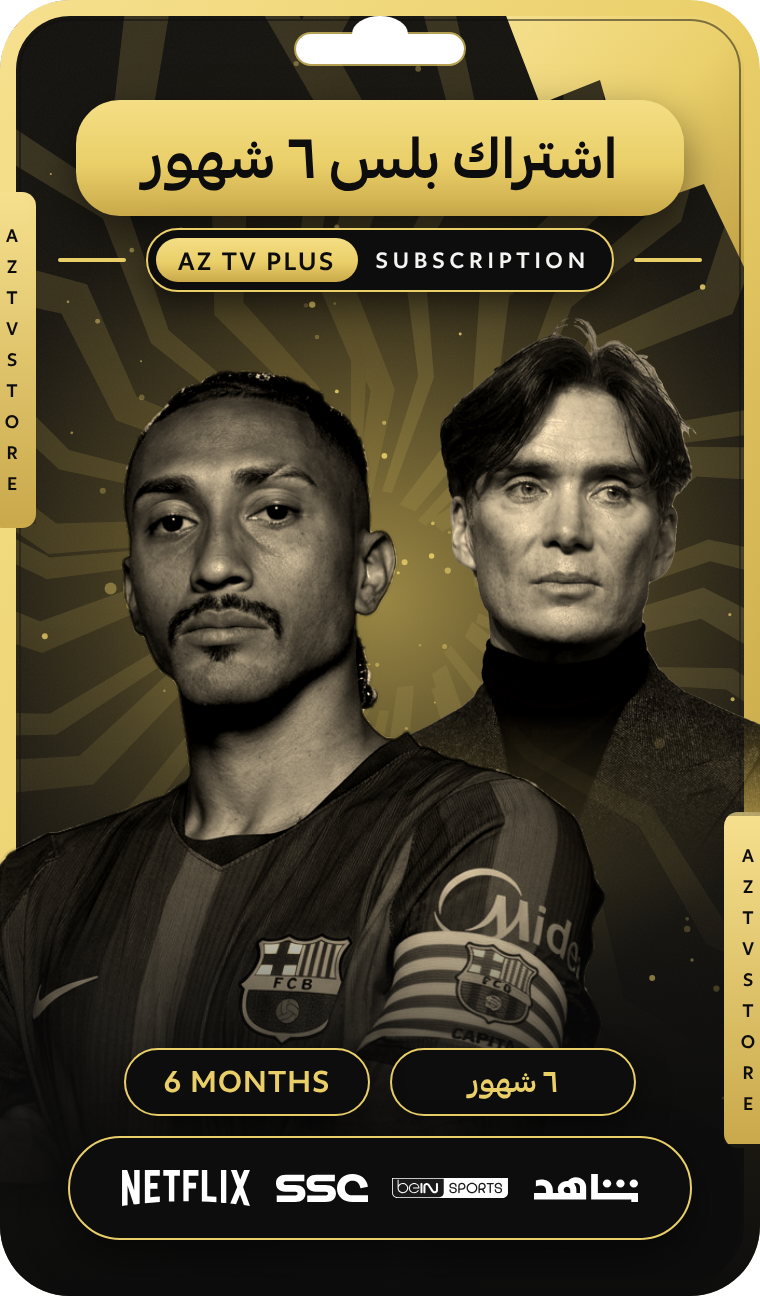
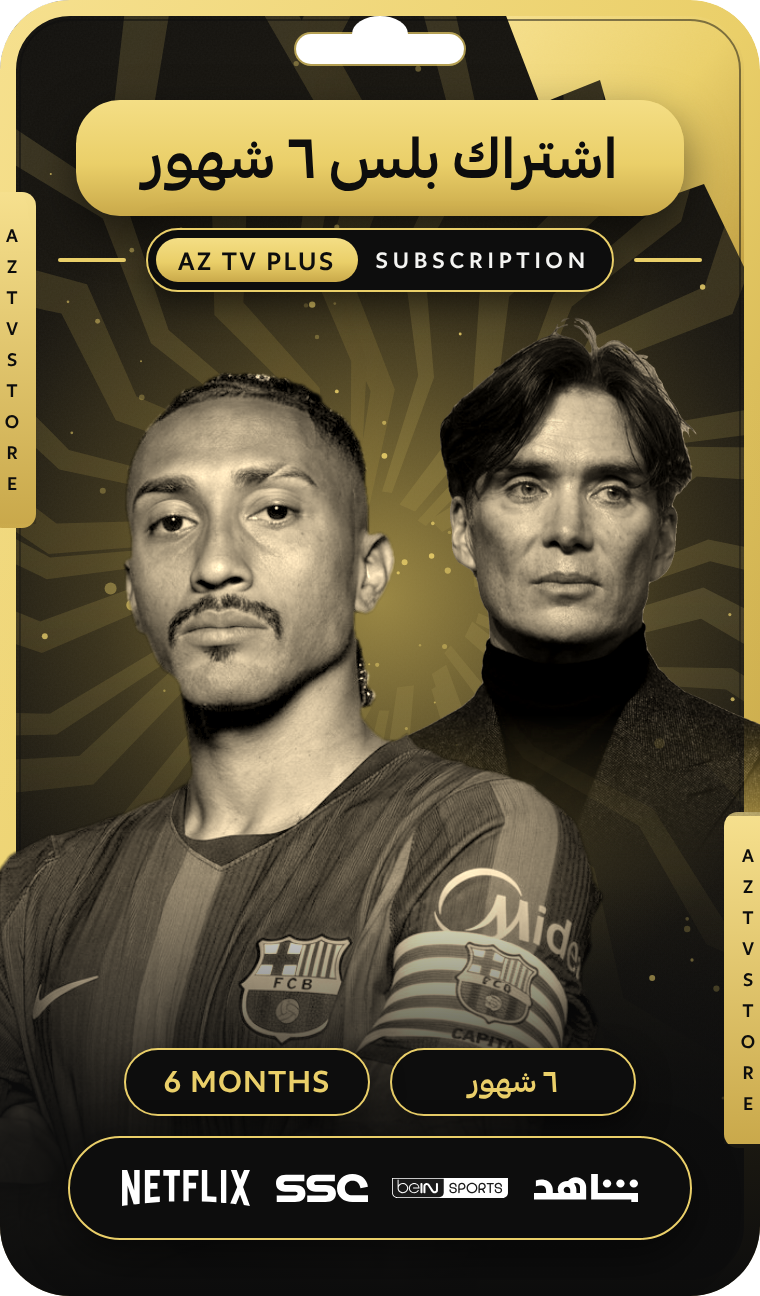
Cards Plus 3 and 6 months: open the shadows on the dark faces
New per-photo gamma option (SVG gamma filter, which also trims 1px off the
cut-out edge so lifting the shadows shows no light fringe). Used on both
photos of Plus 3 months and on the player of Plus 6 months. Other cards
render unchanged.

Claude-Session: https://claude.ai/code/session_01FygVLnFo91EcE1sreJGJg8

Changed region(s): [[0.0, 0.2778, 0.7868, 0.8333]]

diff --git a/05-design/shared/subscription-cards/card.html b/05-design/shared/subscription-cards/card.html
@@ -7,7 +7,8 @@
   One subscription card: the card background (bg/) plus its title, two portraits, duration and platform logos.
   Size 380 x 648 here, exported at 2x = 760 x 1296 to new/<card>.png by render-cards.cjs.
   URL: ?card=aztv-6m   (cards are defined in CARDS below)
-  Photo placement: left, top, width in card px (lift brightens a dark photo); images are faded out at the bottom so no cut line shows.
+  Photo placement: left, top, width in card px (lift brightens a dark photo; gamma below 1 opens the shadows of a dark face without
+  blowing out the highlights); images are faded out at the bottom so no cut line shows.
   Tiers: the regular cards are white and black and white; plus: true switches to the black and gold card (gold pills, warm photos, dark floor).
   Renewal cards have no photos: renew: true draws the renewal arrows in the middle instead.
 -->
@@ -164,15 +165,15 @@ const CARDS = {
     plus: true, bg: PLUS, title: "اشتراك بلس ٦ شهور", dEn: "6 MONTHS", dAr: "٦ شهور",
     photos: [
       { src: ST + "03-cillian-murphy-the-immortal-man.png", left: 182, top: 150, width: 230 },
-      { src: PH + "004-barcelona-captain.png", left: -168, top: 127, width: 483 }
+      { src: PH + "004-barcelona-captain.png", left: -168, top: 127, width: 483, lift: 1.04, gamma: .6 }
     ]
   },
   // 8. AZ TV Plus, 3 months
   "plus-3m": {
     plus: true, bg: PLUS, title: "اشتراك بلس ٣ شهور", dEn: "3 MONTHS", dAr: "٣ شهور",
     photos: [
-      { src: ST + "04-lee-jung-jae-squid-game-3.png", left: 99, top: 77, width: 366, lift: 1.15 },
-      { src: PH + "011-light-blue-kit-hands-behind-back.png", left: -110, top: 172, width: 457 }
+      { src: ST + "04-lee-jung-jae-squid-game-3.png", left: 99, top: 77, width: 366, lift: 1.08, gamma: .62 },
+      { src: PH + "011-light-blue-kit-hands-behind-back.png", left: -110, top: 172, width: 457, gamma: .82 }
     ]
   },
   // 9. AZ TV (regular) renewal: no faces
@@ -211,13 +212,30 @@ document.getElementById("sub-name").textContent = c.plus ? "AZ TV PLUS" : "AZ TV
 document.getElementById("sub").textContent = c.renew ? "RENEWAL" : "SUBSCRIPTION";
 document.getElementById("d-en").textContent = c.dEn;
 document.getElementById("d-ar").textContent = c.dAr;
+// SVG gamma filter (one per value), for CSS filter: url(#id)
+function gammaFilter(g) {
+  const id = "gamma" + String(g).replace(".", "");
+  if (!document.getElementById(id)) {
+    const fn = ["R", "G", "B"].map(ch => `<feFunc${ch} type="gamma" amplitude="1" exponent="${g}" offset="0"/>`).join("");
+    document.body.insertAdjacentHTML("beforeend",
+      // also trims 1px off the cut-out edge, where lifting the shadows would show a light fringe
+      `<svg width="0" height="0" style="position:absolute"><filter id="${id}" color-interpolation-filters="sRGB">` +
+      `<feComponentTransfer result="lit">${fn}</feComponentTransfer>` +
+      `<feMorphology in="SourceAlpha" operator="erode" radius="1" result="edge"/>` +
+      `<feComposite in="lit" in2="edge" operator="in"/></filter></svg>`);
+  }
+  return id;
+}
 const photos = document.getElementById("photos");
 c.photos.forEach(p => {
   const im = new Image(); im.src = p.src;
   im.style.cssText = `left:${p.left}px;top:${p.top}px;width:${p.width}px`;
   // fadeTop: the photo is cut flat at its top edge (hair touching the frame), so fade that edge too
   if (p.fadeTop) im.style.webkitMaskImage = im.style.maskImage = "linear-gradient(to bottom, transparent 0, #000 9%, #000 72%, transparent 97%)";
-  if (p.lift) im.style.filter = c.plus ? `grayscale(1) sepia(.55) saturate(1.25) contrast(1.12) brightness(${p.lift})` : `grayscale(1) contrast(1.15) brightness(${p.lift})`;
+  if (p.lift || p.gamma) {
+    const tone = c.plus ? `grayscale(1) sepia(.55) saturate(1.25) contrast(1.12) brightness(${p.lift || .96})` : `grayscale(1) contrast(1.15) brightness(${p.lift || 1.02})`;
+    im.style.filter = (p.gamma ? `url(#${gammaFilter(p.gamma)}) ` : "") + tone;
+  }
   photos.appendChild(im);
 });
 const logos = document.getElementById("logos");

diff --git a/PROJECT.md b/PROJECT.md
@@ -197,6 +197,7 @@ new store design/
 
 ## 10. Log
 
+- 2026-10-24: Plus 3 months and Plus 6 months cards: faces relit (client: the light was poor). Shadows opened with a gamma lift on both photos of Plus 3 months and on the player of Plus 6 months.
 - 2026-10-24: AZ TV 1 month card: client found its photos weak; now photos 014 (front) and 015 (behind), two actors, instead of 007 and the latest-roles star `07`.
 - 2026-10-24: Cards, client edits: AZ TV 6 months now has photo 013 behind the player (was the dark star photo), AZ TV Plus 1 year has photo 012 behind the player (was 008). The «AZ TV SUBSCRIPTION» line under the title on every card is now a clear pill: the package name in a chip («AZ TV» white, «AZ TV PLUS» gold) and «SUBSCRIPTION» or «RENEWAL» beside it.
 - 2026-10-24: All ten subscription cards built in the accepted look (`05-design/shared/subscription-cards/new/`, overview `new/all-cards.jpg`), using the card photos 001-011 and the latest-roles stars. Plus cards get a gold version of the look (gold title pill, warm portraits, dark floor); the two renewal cards show renewal arrows instead of faces; the two-device Plus card has a «جهازين» badge. Card 3 is unchanged. Waiting for review; who is on which card is in the folder README.

diff --git a/05-design/shared/subscription-cards/README.md b/05-design/shared/subscription-cards/README.md
@@ -53,6 +53,7 @@ Built from `card.html` in the accepted look of card 3, with the card photos 001-
 - **AZ TV Plus cards** (`plus: true`): the black and gold card background, gold title pill with black text, gold «AZ TV PLUS SUBSCRIPTION» line, warm gold-toned portraits, a gold light at the burst centre, a dark floor, black duration and logo pills with a gold edge.
 - **Renewal cards** (`renew: true`): no faces; three renewal arrows in a black disc at the burst centre (white on AZ TV, gold on Plus).
 - **Package line** under the title (all cards, 2026-10-24): a black pill with the package name in a chip, «AZ TV» (white chip) or «AZ TV PLUS» (gold chip), then «SUBSCRIPTION», or «RENEWAL» on the renewal cards. Replaces the small spaced-out «AZ TV SUBSCRIPTION» line, which was hard to read.
+- **Light on dark photos:** a photo can take `gamma` (below 1 opens the shadows of a dark face without blowing out the highlights; it also trims 1 px off the cut-out edge so no light fringe shows) next to `lift` (overall brightness). Used on cards 7 and 8, where the client found the faces too dark.
 - **Two devices** (card 6): a «جهازين · 2 DEVICES» badge above the duration (`badge`).
 
 | Card | Player (front) | Star (behind) |
